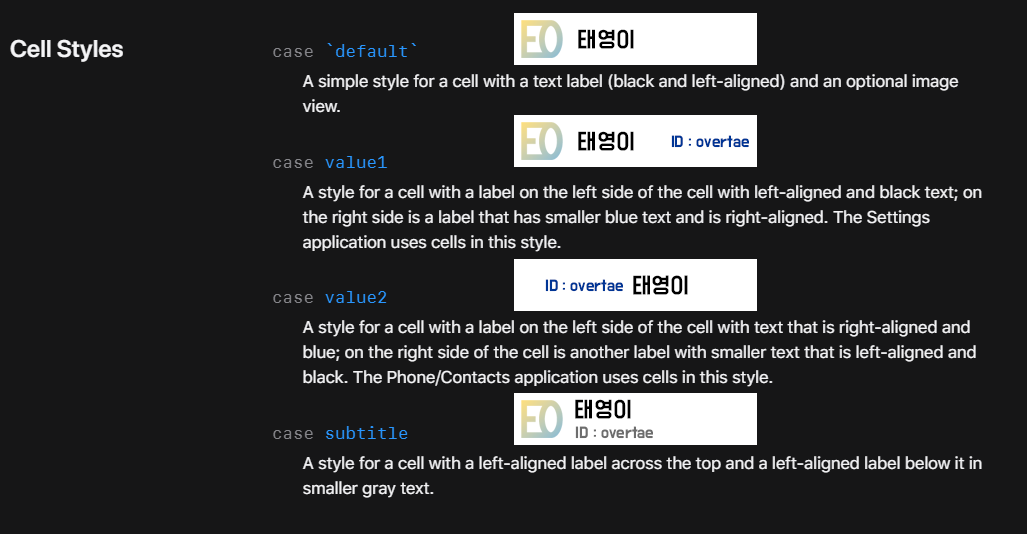
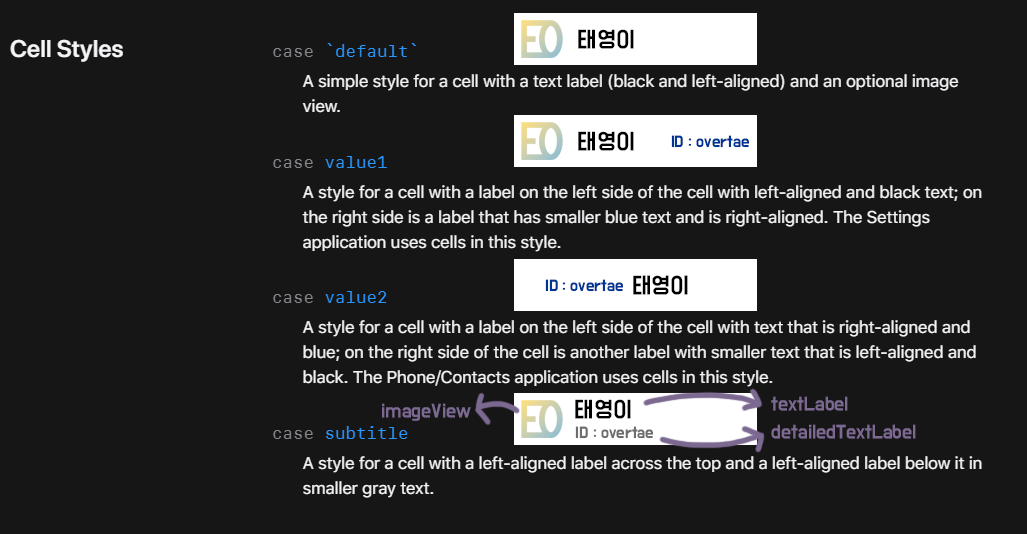
update post

Changed region(s): [[0.6232, 0.7191, 0.9036, 0.839], [0.3739, 0.7491, 0.5297, 0.809]]

diff --git a/_iosapp/2022-01-17-learn-table-view.md b/_iosapp/2022-01-17-learn-table-view.md
@@ -137,6 +137,7 @@ func tableView(_ tableView: UITableView, cellForRowAt indexPath: IndexPath) -> U
 ```swift
 func tableView(_ tableView: UITableView, cellForRowAt indexPath: IndexPath) -> UITableViewCell {
     let cell = UITableViewCell.init(style: .default, reuseIdentifier: "myCell")
+    // .init은 생략해도 무관하다.
     cell.textLabel?.text = "\(indexPath.row)"
     return cell
 }
@@ -166,13 +167,48 @@ override func viewDidLoad() {
 
 앞에서 numberOfRowsInSection의 값을 5로 주었기 때문에 4까지 나온걸 확인할 수 있다.
 
-#### style?
+##### style?
 
 ![cell style]({{ site.url }}{{ site.baseurl }}/assets/images/iosapp/cellstyle.png){: .align-center}
 
 셀의 디자인을 지정한다.
 
 총 네 가지의 디자인이 있으며 위의 이미지를 보면 각각의 특징을 알 수 있다.
+
+##### cell.textLabel?.text
+
+textLabel은 옵셔널형으로 default 스타일에서 제공하는 프로퍼티이다.
+
+#### section 수 지정해보기
+
+```swift
+func numberOfSections(in tableView: UITableView) -> Int {
+    return 2
+}
+```
+
+![screen]({{ site.url }}{{ site.baseurl }}/assets/images/iosapp/screen3.png){: .align-center}
+
+실행 화면을 보면 지정해준 행의 개수만큼 반복이 되는 걸 볼 수 있다.
+
+#### indexPath 알아보기
+
+```swift
+func tableView(_ tableView: UITableView, cellForRowAt indexPath: IndexPath) -> UITableViewCell {
+    let cell = UITableViewCell.init(style: .subtitle, reuseIdentifier: "myCell")
+    cell.textLabel?.text = "\(indexPath.row)"
+    cell.detailTextLabel?.text = indexPath.description
+    return cell
+}
+```
+
+섹션의 수를 2로 지정해주고 위와 같이 입력한다면 결과는 어떻게 나오게 될까
+
+![screen]({{ site.url }}{{ site.baseurl }}/assets/images/iosapp/screen4.png){: .align-center}
+
+실행 화면을 보면 [`섹션의 번호`, `셀의 번호`]의 형태를 갖고있다.
+
+즉, indexPath는 각 섹션과 셀의 정보를 갖고있다.
 
 **Notice:** 이 게시물은 [Smile Han](https://www.youtube.com/watch?v=F5WhaFcK9sg&list=PLJqaIeuL7nuF9UoSxZLxIl3GC5WmeMSSU&index=52 "Smile Han님 유튜브")님의 유튜브를 참고하였습니다.
 {: .notice--info}
